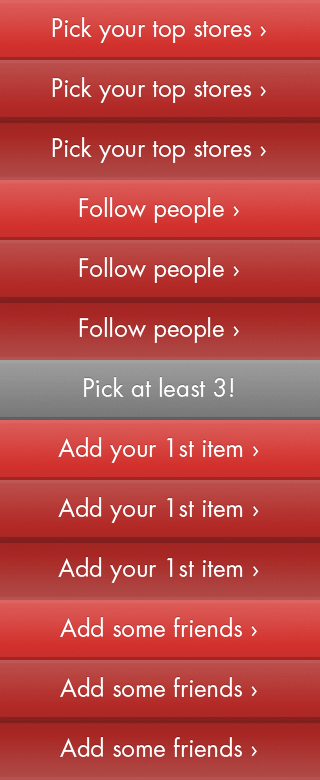
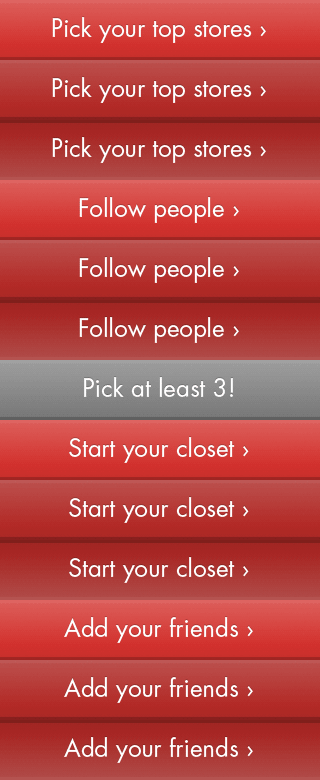
bottom bar for /stores+/friends, new welcome

diff --git a/public/stylesheets/application.css b/public/stylesheets/application.css
@@ -294,7 +294,7 @@ body {
 
 #pic_bg #container .invite_list {
 	text-align: left;
-	margin: 24px auto;
+	margin: 24px auto 120px;
 }
 
 #pic_bg #container .invite_list .invite_row {
@@ -370,6 +370,10 @@ body {
 #pic_bg #stores,  #pic_bg #users {
  width: 865px;
  text-align: center;
+}
+
+#pic_bg #stores {
+	margin-bottom: 100px;
 }
 
 #pic_bg #users {
@@ -465,10 +469,10 @@ body {
 	display: block;
 }
 
-#pic_bg #container .pick_top_stores,
-#pic_bg #container .follow_people,
-#pic_bg #container .add_1st_item,
-#pic_bg #container .invite_friends {
+#pic_bg .pick_top_stores,
+#pic_bg .follow_people,
+#pic_bg .add_1st_item,
+#pic_bg .invite_friends {
 	width: 320px;
 	height: 60px;
 	cursor: pointer;
@@ -482,25 +486,25 @@ body {
 	-webkit-box-shadow: 0px 1px 1px 0px rgba(0, 0, 0, 0.3);
 }
 
-#pic_bg #container .pick_top_stores { 
+#pic_bg .pick_top_stores { 
 	background-position: 0 0;
 	margin-top: 20px; 
 	margin-bottom: 80px; 
 }
 
-#pic_bg #container .pick_top_stores:hover { background-position: 0 -60px; }
-#pic_bg #container .pick_top_stores:active { background-position: 0 -120px; }
+#pic_bg .pick_top_stores:hover { background-position: 0 -60px; }
+#pic_bg .pick_top_stores:active { background-position: 0 -120px; }
 
-#pic_bg #container .follow_people { 
+#pic_bg .follow_people { 
 	background-position: 0 -180px;
 	margin-top: 20px; 
 	margin-bottom: 80px; 
 }
 
-#pic_bg #container .follow_people:hover { background-position: 0 -240px; }
-#pic_bg #container .follow_people:active { background-position: 0 -300px; }
+#pic_bg .follow_people:hover { background-position: 0 -240px; }
+#pic_bg .follow_people:active { background-position: 0 -300px; }
 
-#pic_bg #container .follow_people.disactivated { 
+#pic_bg .follow_people.disactivated { 
 	background-position: 0 -360px; 
 	cursor: default;
 	box-shadow: none;
@@ -509,21 +513,37 @@ body {
 	-ms-filter: "progid:DXImageTransform.Microsoft.Shadow(enabled=false)";
 }
 
-#pic_bg #container .add_1st_item { 
+#pic_bg .add_1st_item { 
 	background-position: 0 -420px;
-	margin-bottom: 40px;  
-
 }
-#pic_bg #container .add_1st_item:hover { background-position: 0 -480px; }
-#pic_bg #container .add_1st_item:active { background-position: 0 -540px; }
 
-#pic_bg #container .invite_friends { 
+#pic_bg .follow_people,
+#pic_bg .add_1st_item { 
+	margin: 18px auto 22px;
+}
+
+#pic_bg .add_1st_item:hover { background-position: 0 -480px; }
+#pic_bg .add_1st_item:active { background-position: 0 -540px; }
+
+#pic_bg .invite_friends { 
 	background-position: 0 -600px;
 	margin-bottom: 40px;  
-
 }
-#pic_bg #container .invite_friends:hover { background-position: 0 -660px; }
-#pic_bg #container .invite_friends:active { background-position: 0 -720px; }
+
+#pic_bg .invite_friends:hover { background-position: 0 -660px; }
+#pic_bg .invite_friends:active { background-position: 0 -720px; }
+
+#footer_onboarding {
+	height: 100px;
+	width: 100%;
+	position: fixed;
+	bottom: 0px;
+	text-align: center;
+	line-height: 100px;
+	background: #e9e4e1;
+	border-top: 1px solid #A8A8A8;
+	z-index: 10000;
+}
 
 #pic_bg #container #users .picker_choice .tiles {
 	position: absolute;
